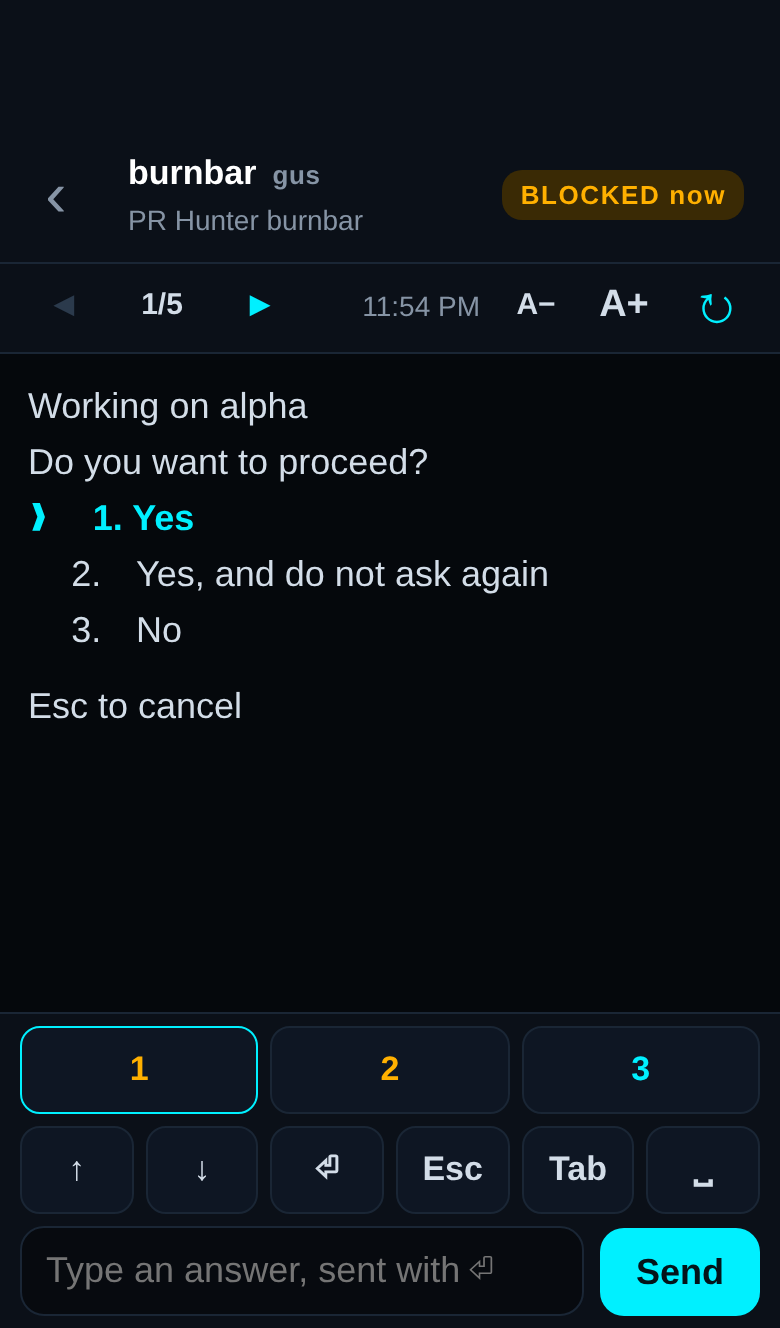
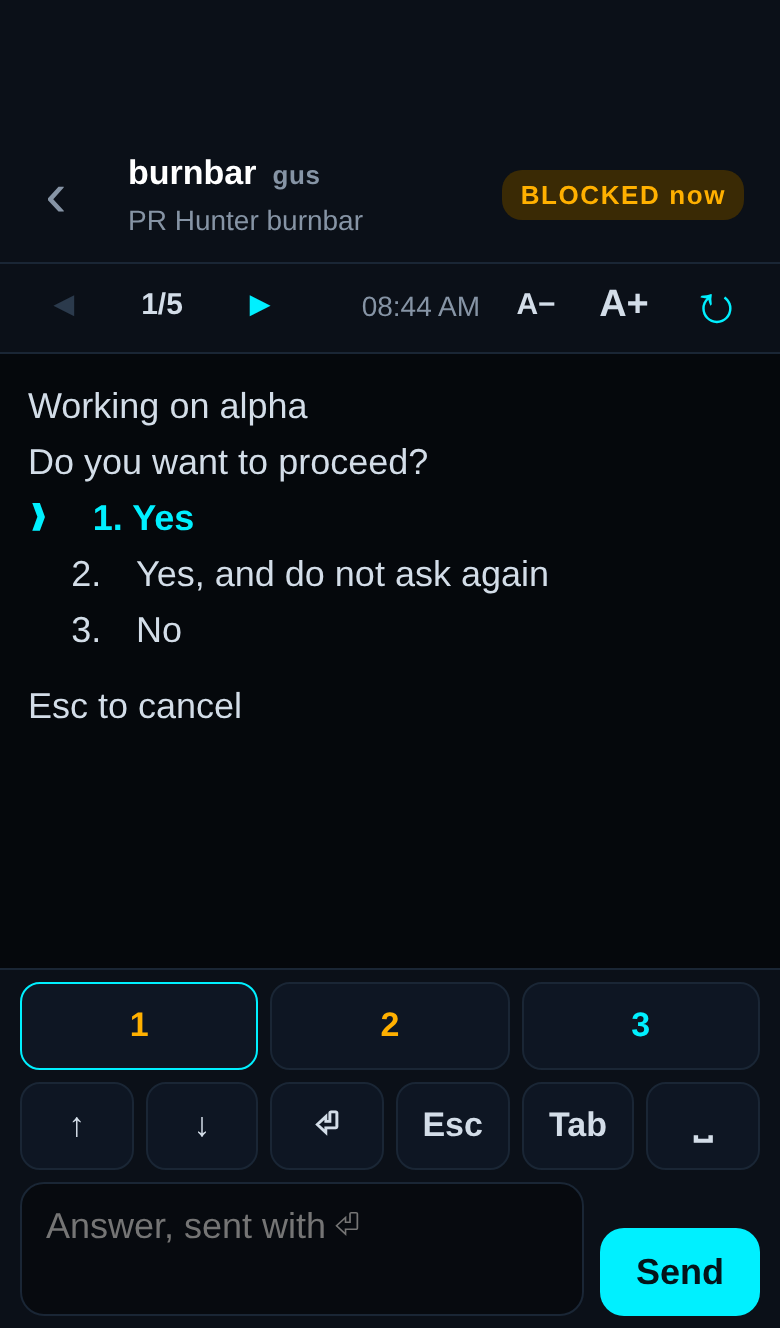
feat: slash row in the compose box: your last 6 used skills, tappable, plus MORE to search them all
WHAT: GET /api/commands (signed) lists what exists on the host (user skills, plugin skills as plugin:skill, user
  commands, built-in commands) and what was typed lately, read from Claude Code's own history.jsonl (newest
  first, unique, paths like /home/pi/x never match, /exit /quit /logout are never offered as a chip).
  App: a "/" button beside the message box (or typing "/") shows a row of the last 6 used (this phone's own picks
  first, then the host's history); typing "/be" filters it; tapping FILLS the box with "/name " and never sends;
  MORE opens a searchable sheet of every skill and command, matching names and descriptions. No row on a session
  sitting at a dialog (typed text goes into the dialog). A slash command still goes through the preview sheet.
  Remote hosts list built-ins only (their skills are not read from here). Placeholders shortened so the box
  stays one line. README section + 5th montage frame; PRD marked built. Build v11.
WHY: Fred, 2026-10-09: "A tappable skill list of the last 6 ones I use and searchable for all of them with a MORE button."
VERIFIED: ui.mjs (chips order from fixture history, /exit and path excluded, chip fills not sends, filter,
  MORE search by name + description, plugin skill, preview sheet still required, none on a blocked session),
  sw_offline 4, format harness; host scan 108 commands in 13 ms on the real skills dir.

LR-T: shepr, slash, skills, compose, history
LR-D: mobile
LR-K: shepr-app-v1, slash-picker
[…]

diff --git a/app.js b/app.js
@@ -8,7 +8,7 @@
      3. No timer, retry or "auto" anything ever sends. A failed send is reported, never repeated.
      4. The private key never leaves the phone: it is generated non-extractable and only signs. */
 'use strict';
-const BUILD = 'v9';   // keep equal to sw.js VERSION: shown in Keys and logged by the host, so you can see which app a phone is running
+const BUILD = 'v11';   // keep equal to sw.js VERSION: shown in Keys and logged by the host, so you can see which app a phone is running
 
 // ---------------------------------------------------------------------------
 // 1. Service worker. Without this, a dead tailnet shows Safari's error page and
@@ -758,6 +758,7 @@ function commit(plan, goBtn) {
     }
     S.keybuf = []; paintStage();
     $('msg').value = ''; autosize();
+    if (plan.kind === 'text' && S.cur) noteSlashUse(S.cur.host, S.lastText);
     notify('Sent to ' + (plan.target.title || plan.target.pane), false);
     setTimeout(loadTail, 1400);
     fetchQueue(true);
@@ -769,6 +770,7 @@ function commit(plan, goBtn) {
 }
 
 function prepare(body) {
+  if (body.kind === 'text') S.lastText = body.text;
   const isHost = HOST_KINDS.indexOf(body.kind) >= 0 || body.kind === 'wake';
   if (!isHost && !S.cur) return;
   const b = isHost ? body : Object.assign({ host: S.cur.host, pane: S.cur.pane }, body);
@@ -802,7 +804,8 @@ function openDetail(host, pane, ctx) {
   $('tail').textContent = 'reading…';
   $('toast').hidden = true;
   const g = $('gtoast'); if (g) g.hidden = true;   // a toast left over from the list must not cover this session's buttons
-  paintStage(); paintDetailChrome();
+  S.slashOpen = false; $('msg').value = ''; autosize(); paintStage(); paintDetailChrome();
+  loadCmds(host);
   loadTail(true);
 }
 
@@ -1022,11 +1025,13 @@ function paintDock() {
   if (!key.hidden) {
     (st === 'working' ? [KEYS[3]] : KEYS).forEach((k) => key.append(btn(k[0], '', () => stageKey(k[1]))));
   }
-  const ph = st === 'blocked' ? 'Type an answer, sent with ⏎'
-           : st === 'working' ? 'Working: a prompt waits its turn'
-           : 'Send a prompt' + (S.agent ? ' to ' + S.agent.agent : '');
+  // Short on purpose: the box is narrow now (the / button), and a placeholder that wraps makes the box grow.
+  const ph = st === 'blocked' ? 'Answer, sent with ⏎'
+           : st === 'working' ? 'Queued until it is free'
+           : 'Message ' + (S.agent ? S.agent.agent : '');
   $('msg').placeholder = ph;
   $('send').disabled = !S.agent;
+  paintSlash();
 }
 
 function stageKey(k) {
@@ -1055,6 +1060,96 @@ $('compose').addEventListener('submit', (e) => {
   const text = $('msg').value.trim();
   if (text) prepare({ kind: 'text', text });
 });
+
+// ---- slash row: the last 6 skills/commands you used, tappable; MORE opens a searchable list of every one.
+// Tapping only FILLS the box with "/name ". Nothing is sent: it still goes through the preview sheet like any prompt.
+S.cmds = {};          // host -> {at, data}
+S.slashOpen = false;
+const cmdKey = (h) => 'shepr.slash.' + h;
+function loadCmds(host) {
+  const c = S.cmds[host];
+  if (c && Date.now() - c.at < 5 * 60 * 1000) return Promise.resolve(c.data);
+  return api('api/commands?host=' + encodeURIComponent(host)).then((d) => { S.cmds[host] = { at: Date.now(), data: d }; paintSlash(); return d; })
+    .catch(() => null);
+}
+// What to show: this phone's own recent picks first (they are instant), then the host's history, no duplicates.
+function recentCmds(host, data) {
+  const mine = store.get(cmdKey(host), []);
+  const byName = {}; ((data && data.all) || []).forEach((c) => { byName[c.name] = c; });
+  const names = [];
+  mine.concat(((data && data.recent) || []).map((c) => c.name)).forEach((n) => { if (n && names.indexOf(n) < 0) names.push(n); });
+  return names.slice(0, 6).map((n) => byName[n] || { name: n, desc: '', kind: 'used' });
+}
+function noteSlashUse(host, text) {
+  const m = /^\/([A-Za-z][\w:.-]*)(?:\s|$)/.exec(text || '');
+  if (!m) return;
+  const l = store.get(cmdKey(host), []).filter((x) => x !== m[1]); l.unshift(m[1]); store.set(cmdKey(host), l.slice(0, 12));
+}
+function fillCmd(name) {
+  const t = $('msg'); t.value = '/' + name + ' '; autosize(); S.slashOpen = false; paintSlash();
+  t.focus(); try { t.setSelectionRange(t.value.length, t.value.length); } catch (e) { /* ignore */ }
+}
+function paintSlash() {
+  const row = $('slashrow'), btn_ = $('slashbtn');
+  const st = S.agent ? S.agent.status : null;
+  // A session sitting at a dialog takes typed text INTO the dialog: a slash command makes no sense there.
+  const allowed = !!S.cur && !!S.agent && st !== 'blocked';
+  btn_.hidden = !allowed;
+  const v = $('msg').value;
+  const typing = /^\/\S*$/.test(v);
+  const show = allowed && (S.slashOpen || typing);
+  btn_.classList.toggle('on', show);
+  row.hidden = !show; row.textContent = '';
+  if (!show) return;
+  const data = (S.cmds[S.cur.host] || {}).data;
+  let list;
+  if (typing && v.length > 1) {
+    const q = v.slice(1).toLowerCase();
+    const all = (data && data.all) || [];
+    list = all.filter((c) => c.name.toLowerCase().startsWith(q)).concat(all.filter((c) => !c.name.toLowerCase().startsWith(q) && c.name.toLowerCase().includes(q))).slice(0, 6);
+  } else list = recentCmds(S.cur.host, data);
+  list.forEach((c) => { const b = el('button', null, '/' + c.name); b.type = 'button'; b.addEventListener('click', () => fillCmd(c.name)); row.append(b); });
+  if (!list.length) row.append(el('span', 'none', data ? 'No match' : 'Loading…'));
+  const more = el('button', 'more', 'MORE'); more.type = 'button';
+  more.addEventListener('click', () => openSlashSheet(typing ? v.slice(1) : ''));
+  row.append(more);
+}
+function openSlashSheet(prefill) {
+  const host = S.cur ? S.cur.host : null;
+  if (!host) return;
+  const box = el('div');
+  box.style.cssText = 'display:flex;flex-direction:column;min-height:0';
+  const inp = el('input', 'search'); inp.type = 'search'; inp.placeholder = 'Search skills and commands';
+  inp.value = prefill || ''; inp.autocomplete = 'off'; inp.autocapitalize = 'off'; inp.spellcheck = false;
+  const list = el('div', 'golist');
+  const closeRow = el('div', 'btns'); closeRow.style.marginTop = '8px'; closeRow.append(btn('Close', '', closeSheet));
+  box.append(inp, list, closeRow);
+  const draw = (data) => {
+    list.textContent = '';
+    if (!data) { list.append(el('div', 'empty', 'Could not read the list from this host.')); return; }
+    const recent = recentCmds(host, data).map((c) => c.name);
+    const toks = inp.value.toLowerCase().replace(/^\//, '').split(/\s+/).filter(Boolean);
+    const hits = data.all.filter((c) => toks.every((t) => (c.name + ' ' + c.desc).toLowerCase().includes(t)))
+      .sort((a, b) => (recent.indexOf(a.name) < 0 ? 99 : recent.indexOf(a.name)) - (recent.indexOf(b.name) < 0 ? 99 : recent.indexOf(b.name)) || a.name.localeCompare(b.name));
+    if (!hits.length) list.append(el('div', 'empty', 'Nothing matches.'));
+    hits.slice(0, 80).forEach((c) => {
+      const b = el('button', 'cmd' + (recent.indexOf(c.name) >= 0 ? ' rec' : '')); b.type = 'button';
+      b.append(el('span', 'k', c.kind), el('span', 'n', '/' + c.name), el('span', 'd', c.desc || ' '));
+      b.addEventListener('click', () => { closeSheet(); fillCmd(c.name); });
+      list.append(b);
+    });
+    if (data.note) list.append(el('div', 'dim fine', data.note));
+  };
+  inp.addEventListener('input', () => draw((S.cmds[host] || {}).data));
+  openSheet(box);
+  list.append(el('div', 'empty', 'Loading…'));
+  loadCmds(host).then(draw);
+}
+$('slashbtn').addEventListener('click', () => {
+  S.slashOpen = !S.slashOpen; paintSlash();
+  if (S.cur) loadCmds(S.cur.host);
+});
+$('msg').addEventListener('input', () => { paintSlash(); if (S.cur && /^\//.test($('msg').value)) loadCmds(S.cur.host); });
 
 // ---- toasts: inside the session view, or floating above the tab bar elsewhere
 let toastT = null;

diff --git a/app.css b/app.css
@@ -428,3 +428,21 @@ button{font:inherit;color:inherit}
 .chips.compact span.x{display:none}
 .chips .more{color:var(--accent);border-color:rgba(0,240,255,.4);background:rgba(0,240,255,.07);font-weight:700}
 .chips{margin-top:6px}
+
+/* ---- slash row: the skills you use most, one tap each; MORE searches all of them ---- */
+.slashrow{display:flex;flex-wrap:wrap;gap:6px;margin-bottom:6px}
+.slashrow button{min-height:40px;padding:0 13px;border-radius:12px;border:1px solid rgba(0,240,255,.35);background:rgba(0,240,255,.06);
+  color:var(--accent);font:700 16px ui-monospace,SFMono-Regular,Menlo,monospace;max-width:100%;overflow:hidden;text-overflow:ellipsis;white-space:nowrap}
+.slashrow button:active{background:rgba(0,240,255,.18)}
+.slashrow button.more{color:#04141a;background:var(--accent);border-color:var(--accent);font-family:inherit;font-weight:800}
+.slashrow .none{color:var(--dim);font-size:15px;align-self:center}
+.slashbtn{flex:0 0 auto;width:44px;min-height:44px;border-radius:12px;border:1px solid var(--line);background:var(--card);
+  color:var(--accent);font:800 22px ui-monospace,Menlo,monospace}
+.slashbtn.on{background:rgba(0,240,255,.15);border-color:var(--accent)}
+.slashbtn[hidden]{display:none}
+.cmd{display:block;width:100%;text-align:left;padding:10px 14px;border-radius:12px;border:1px solid var(--line);background:var(--card)}
+.cmd .n{display:block;font:700 17px ui-monospace,SFMono-Regular,Menlo,monospace;color:var(--accent)}
+.cmd .d{display:block;margin-top:2px;font-size:14px;line-height:1.35;color:var(--dim);display:-webkit-box;-webkit-line-clamp:2;-webkit-box-orient:vertical;overflow:hidden}
+.cmd .k{float:right;font-size:11px;font-weight:800;letter-spacing:.8px;text-transform:uppercase;color:var(--dim)}
+.cmd.rec{border-color:rgba(0,240,255,.35)}
+.cmd:active{background:#14202f}

diff --git a/index.html b/index.html
@@ -88,7 +88,9 @@
       <div class="drow stage" id="stage" hidden></div>
       <div class="drow opts" id="optrow" hidden></div>
       <div class="drow keys" id="keyrow" hidden></div>
+      <div class="slashrow" id="slashrow" hidden></div>
       <form class="compose" id="compose" autocomplete="off">
+        <button type="button" class="slashbtn" id="slashbtn" aria-label="Skills and commands">/</button>
         <textarea id="msg" rows="1" maxlength="4000" placeholder="Type an answer or a prompt" enterkeyhint="send"></textarea>
         <button type="submit" class="send" id="send">Send</button>
       </form>

diff --git a/sw.js b/sw.js
@@ -2,7 +2,7 @@
    Goal: when the tailnet is unreachable, the user sees YOUR app with YOUR message,
    not Safari's error page. It is NOT a general offline database. */
 
-const VERSION = 'shepr-v9';
+const VERSION = 'shepr-v11';
 // The app shell: everything needed to paint a useful screen with no network.
 const SHELL = ['./', 'index.html', 'app.css', 'app.js', 'manifest.webmanifest', 'icons/icon-180.png', 'icons/icon-192.png'];
 

diff --git a/server.py b/server.py
@@ -842,6 +842,115 @@ def hosts_view():
             "enroll": f"mkdir -p ~/.ssh && echo '{pk}' >> ~/.ssh/authorized_keys && chmod 600 ~/.ssh/authorized_keys" if pk else None}
 
 
+# --------------------------------------------------------------------------------------------
+# slash commands and skills, for the compose box: what exists on this host, and what was used lately
+# --------------------------------------------------------------------------------------------
+BUILTIN_CMDS = [("clear", "Clear the conversation"), ("compact", "Summarise the conversation to free context"),
+                ("context", "Show what is using the context window"), ("cost", "Show token use and cost"),
+                ("model", "Switch model"), ("effort", "Set the thinking effort"), ("resume", "Resume an earlier session"),
+                ("rename", "Rename this session"), ("memory", "Edit memory files"), ("config", "Open settings"),
+                ("status", "Show account and session status"), ("mcp", "Manage MCP servers"), ("agents", "Manage subagents"),
+                ("permissions", "Manage tool permissions"), ("review", "Review a pull request"), ("init", "Create a CLAUDE.md"),
+                ("help", "Show help"), ("rc", "Remote control"), ("btw", "Ask a side question"),
+                ("exit", "Ends the session"), ("quit", "Ends the session")]
+NEVER_RECENT = {"exit", "quit", "logout", "login"}   # a chip that ends the session is a trap on a phone
+_cmd_cache = {"at": 0.0, "all": []}
+
+
+def read_frontmatter(path):
+    """name / description from a SKILL.md or command .md. Tolerant: quoted values, folded (> or |) descriptions."""
+    try:
+        with open(path, encoding="utf-8", errors="replace") as f:
+            head = f.read(4000)
+    except OSError:
+        return {}
+    if not head.startswith("---"):
+        return {}
+    block = head.split("---", 2)[1] if head.count("---") >= 2 else ""
+    out, key = {}, None
+    for line in block.splitlines():
+        m = re.match(r"^([A-Za-z_-]+):\s*(.*)$", line)
+        if m:
+            key = m.group(1).lower()
+            v = m.group(2).strip()
+            out[key] = "" if v in (">", "|", ">-", "|-") else v.strip("\"'")
+        elif key and line.startswith((" ", "\t")):
+            out[key] = (out.get(key, "") + " " + line.strip()).strip()
+    return out
+
+
+def one_line(t, n=150):
+    t = re.sub(r"\s+", " ", t or "").strip()
+    return t if len(t) <= n else t[: n - 1].rstrip() + "…"
+
+
+def scan_commands():
+    found = {}
+    def add(name, desc, kind):
+        if name and re.match(r"^[A-Za-z][\w:.-]*$", name) and name not in found:
+            found[name] = {"name": name, "desc": one_line(desc), "kind": kind}
+    for p in sorted(glob.glob(os.path.join(CLAUDE_HOME, "skills", "*", "SKILL.md"))):
+        fm = read_frontmatter(p)
+        add(fm.get("name") or os.path.basename(os.path.dirname(p)), fm.get("description", ""), "skill")
+    for p in sorted(glob.glob(os.path.join(CLAUDE_HOME, "commands", "**", "*.md"), recursive=True)):
+        rel = os.path.relpath(p, os.path.join(CLAUDE_HOME, "commands"))[:-3].replace(os.sep, ":")
+        add(rel, read_frontmatter(p).get("description", ""), "command")
+    # plugins: cache/<marketplace>/<plugin>/<version>/{skills/*/SKILL.md, commands/*.md}; newest version of each plugin
+    base = os.path.join(CLAUDE_HOME, "plugins", "cache")
+    for plug_dir in sorted(glob.glob(os.path.join(base, "*", "*"))):
+        vers = sorted(glob.glob(os.path.join(plug_dir, "*")), key=os.path.getmtime)
+        if not vers:
+            continue
+        v, plug = vers[-1], os.path.basename(plug_dir)
+        for p in sorted(glob.glob(os.path.join(v, "skills", "*", "SKILL.md"))):
+            fm = read_frontmatter(p)
+            add(f"{plug}:{fm.get('name') or os.path.basename(os.path.dirname(p))}", fm.get("description", ""), "plugin")
+        for p in sorted(glob.glob(os.path.join(v, "commands", "*.md"))):
+            add(f"{plug}:{os.path.basename(p)[:-3]}", read_frontmatter(p).get("description", ""), "plugin")
+    for n, d in BUILTIN_CMDS:
+        add(n, d, "builtin")
+    return sorted(found.values(), key=lambda c: c["name"].lower())
+
+
+def recent_commands(limit=6, scan=6000):
+    """The slash commands actually typed lately, newest first, from Claude Code's own prompt history."""
+    names = []
+    try:
+        with open(os.path.join(CLAUDE_HOME, "history.jsonl"), "rb") as f:
+            f.seek(0, os.SEEK_END)
+            size = f.tell()
+            f.seek(max(0, size - 1_500_000))
+            lines = f.read().decode("utf-8", "replace").splitlines()[-scan:]
+    except OSError:
+        return names
+    for line in reversed(lines):
+        try:
+            disp = json.loads(line).get("display") or ""
+        except ValueError:
+            continue
+        # "/name" then whitespace or end: a path like /home/pi/x never matches
+        m = re.match(r"^/([A-Za-z][\w:.-]*)(?:\s|$)", disp)
+        if m and m.group(1) not in names and m.group(1).lower() not in NEVER_RECENT:
+            names.append(m.group(1))
+            if len(names) >= limit:
+                break
+    return names
+
+
+def commands_view(host):
+    local = host["kind"] == "local"
+    now = time.time()
+    if now - _cmd_cache["at"] > 60:
+        _cmd_cache.update(at=now, all=scan_commands())
+    allc = _cmd_cache["all"]
+    if not local:      # a remote host's skills are not read from here: built-ins only, and say so
+        allc = [c for c in allc if c["kind"] == "builtin"]
+    by = {c["name"]: c for c in allc}
+    recent = [by.get(n) or {"name": n, "desc": "", "kind": "used"} for n in (recent_commands() if local else [])]
+    return {"host": host["id"], "local": local, "recent": recent, "all": allc,
+            "note": None if local else "Only built-in commands are listed for a remote host."}
+
+
 def register_plan(plan):
     with LOCK:
         for k in [k for k, p in PLANS.items() if p["expires"] < time.time()]:
@@ -1104,6 +1213,8 @@ class Handler(SimpleHTTPRequestHandler):
                 return self.json_out(200, {"text": text, "lines": n, "menu": parse_menu(read_tail(host, pane, 80))
                                            if a["agent_status"] == "blocked" else None,
                                            "agent": shape_agent(host, a, {}), "at": time.time()})
+            if not post and u.path == "/api/commands":
+                return self.json_out(200, commands_view(need_host(q.get("host", ""))))
             if not post and u.path == "/api/hosts":
                 out = hosts_view()
                 out["devices"] = [dict(dev_public(i, d), you=(i == viewer)) for i, d in devices().items()]

diff --git a/README.md b/README.md
@@ -60,6 +60,16 @@ compact strip of chips: model, context, banked / weekly subscription, 5h window,
 the rest behind one **+N** tap. **A−** / **A+** change the size (it remembers). Text only ever goes through `textContent`: whatever an
 agent prints is data, never markup.
 
+### Skills and slash commands
+
+In a session, tap **/** next to the message box (or just type `/`): a row shows the **last 6 skills and commands you
+actually used**, newest first (read from Claude Code's own prompt history on the host). Tap one and it fills the box
+with `/name `; it never sends. **MORE** opens a searchable list of everything on the host (your skills, plugin skills,
+built-in commands), matching names and descriptions. Typing `/be…` filters the row as you go. `/exit` and `/quit` are
+never offered as a one-tap chip, and a session sitting at a dialog gets no slash row (typing goes into the dialog).
+A slash command still goes through the preview-and-confirm sheet like any prompt. For a remote host only the built-in
+commands are listed: its skills are not read from here.
+
 ### Wake
 
 **Sleeping > Wake…** lists the idle sessions (all ticked) and one message (default "Continue where you left off.").

diff --git a/docs/PRD-slash-picker.md b/docs/PRD-slash-picker.md
@@ -1,6 +1,6 @@
 # PRD: slash-command and skill options in the compose box (PARKED, 2026-10-08 23:5x)
 
-Status: **DECIDED, not built.** Requested after the 11 PM park-it cutoff, so it waits until Fred has slept.
+Status: **BUILT 2026-10-09 (build v10)** after Fred decided on A. See README, "Skills and slash commands".
 **Decision (Fred, 2026-10-09 ~00:05): A, shaped as: a tappable row of the LAST 6 skills he used, plus search over all of them behind a MORE button.**
 Request, verbatim: "Can you pass the options when I try to use a skill with /'s".
 

diff --git a/tests/fixtures/claude-home/skills/Beta/SKILL.md b/tests/fixtures/claude-home/skills/Beta/SKILL.md
@@ -1,0 +1,7 @@
+---
+name: Beta
+description: >
+  Second fixture skill with a folded
+  multi-line description.
+---
+# Beta

diff --git a/tests/fixtures/claude-home/skills/Alpha/SKILL.md b/tests/fixtures/claude-home/skills/Alpha/SKILL.md
@@ -1,0 +1,5 @@
+---
+name: Alpha
+description: First fixture skill. USE WHEN testing the slash row.
+---
+# Alpha

diff --git a/tests/fixtures/claude-home/plugins/cache/mk/plug/1.0/skills/delta/SKILL.md b/tests/fixtures/claude-home/plugins/cache/mk/plug/1.0/skills/delta/SKILL.md
@@ -1,0 +1,5 @@
+---
+name: delta
+description: A plugin skill, namespaced plug:delta.
+---
+# delta

diff --git a/tests/fixtures/claude-home/skills/Gamma/SKILL.md b/tests/fixtures/claude-home/skills/Gamma/SKILL.md
@@ -1,0 +1,5 @@
+---
+name: "Gamma"
+description: "Third fixture skill, quoted."
+---
+# Gamma
